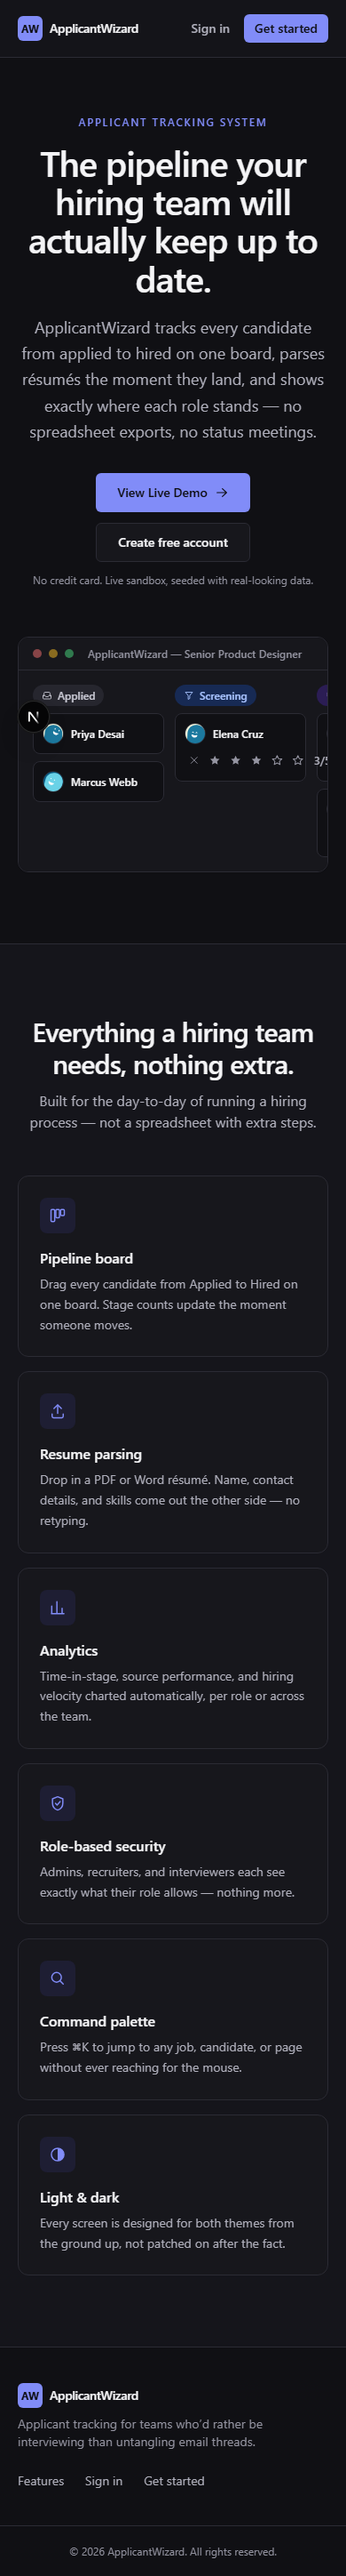
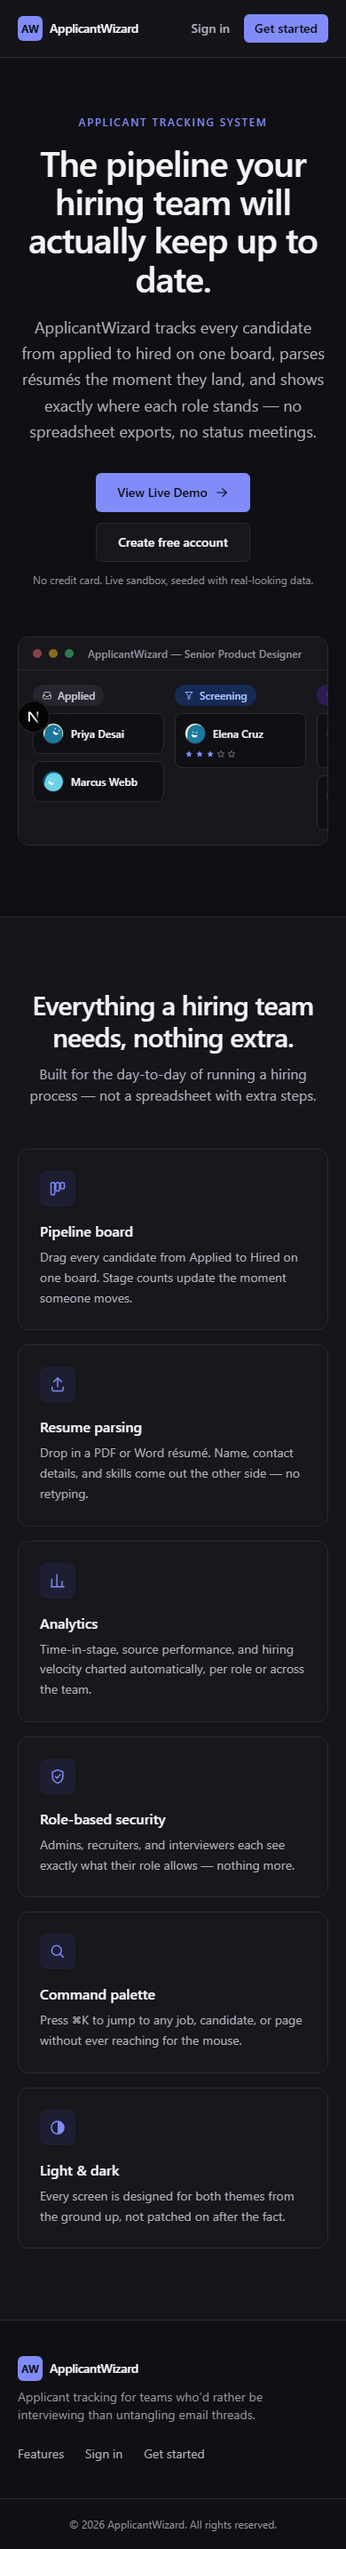
fix: static star row in landing mock so cards don't overflow

diff --git a/src/components/marketing/landing.tsx b/src/components/marketing/landing.tsx
@@ -7,7 +7,6 @@ import { toast } from "@/components/ui/toast";
 import { Button, buttonClasses } from "@/components/ui/button";
 import { Avatar } from "@/components/ui/avatar";
 import { StageBadge } from "@/components/ui/stage-badge";
-import { StarRating } from "@/components/ui/star-rating";
 import {
   IconArrowRight,
   IconBoard,
@@ -15,6 +14,8 @@ import {
   IconContrast,
   IconSearch,
   IconShield,
+  IconStar,
+  IconStarFilled,
   IconUpload,
   type IconProps,
 } from "@/components/ui/icons";
@@ -214,12 +215,40 @@ function Hero() {
 }
 
 /**
+ * A purely decorative 5-star row for the pipeline mock's cards — NOT the
+ * real `StarRating` control. `StarRating` is a `radiogroup` of six size-6
+ * buttons (five stars plus an n=0 "clear" option drawn as an `IconX`) with a
+ * persistent "n/5" text label: ≈190px minimum width, correct for the real
+ * interactive control (drawer/table) but wider than these ~150px mock
+ * cards, which wrapped it onto two lines with the "clear" `×` and the "n/5"
+ * label crammed against the stars. This is just five small icons in a row —
+ * no zero-option, no label, no buttons — sized to always fit on one line at
+ * both mobile and desktop widths. `aria-hidden` (redundant with the whole
+ * mock's own `aria-hidden` below, kept here too since this piece is the one
+ * that would otherwise look interactive).
+ */
+function MockStarRow({ rating }: { rating: number }) {
+  return (
+    <div className="mt-1.5 flex items-center gap-0.5" aria-hidden="true">
+      {[1, 2, 3, 4, 5].map((n) =>
+        n <= rating ? (
+          <IconStarFilled key={n} size={10} className="text-accent" />
+        ) : (
+          <IconStar key={n} size={10} className="text-text-3" />
+        )
+      )}
+    </div>
+  );
+}
+
+/**
  * The product's signature visual: a stylized snapshot of the pipeline board
- * built from the real `StageBadge`, `Avatar`, and `StarRating` components —
- * static mock data, never fetched, and `aria-hidden` since it's decorative
- * (the text above already states everything a screen reader user needs).
- * The fake window chrome (traffic-light dots + title bar) frames it as a
- * product surface rather than an abstract illustration.
+ * built from the real `StageBadge` and `Avatar` components (plus the
+ * decorative `MockStarRow` above, standing in for `StarRating` — see its own
+ * doc comment for why) — static mock data, never fetched, and `aria-hidden`
+ * since it's decorative (the text above already states everything a screen
+ * reader user needs). The fake window chrome (traffic-light dots + title
+ * bar) frames it as a product surface rather than an abstract illustration.
  */
 function PipelineMock() {
   return (
@@ -241,7 +270,7 @@ function PipelineMock() {
                     <Avatar seed={c.seed} name={c.name} size={24} />
                     <span className="truncate text-xs font-medium text-text">{c.name}</span>
                   </div>
-                  {c.rating > 0 && <StarRating value={c.rating} readOnly className="mt-1.5 scale-90 origin-left" />}
+                  {c.rating > 0 && <MockStarRow rating={c.rating} />}
                 </div>
               ))}
             </div>
